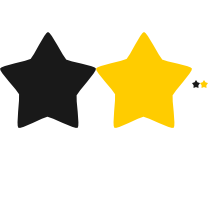
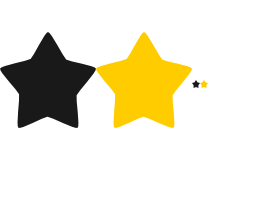
Working on achievements, minor fixes

Changed region(s): [[0.0, 0.125, 0.9375, 0.5938]]

diff --git a/src/Bulk_ui.h b/src/Bulk_ui.h
@@ -521,23 +521,17 @@ class control: public objectBased {
 		status = normal;//Sets normal status
 	
 		int i;//Counter
-		for (i = 0; i <= pressed; i++)//For each status
+		for (i = 0; i <= pressed; i++){//For each status
 			themes[i] = NULL;//Sets null theme for that status
+		}
 			
 		clickThrough = false;
 			
 		release.handlers.push_back(getFocus);//Adds getFocus to click events
 	}
 	
-	//Print function
-	virtual void print(SDL_Surface* target, int x = 0, int y = 0){
-		//Adds offset
-		area.x += x;
-		area.y += y;
-		
-		if (themes[status])//If there's a valid theme for current status
-			themes[status]->printRect(target, area);//Prints the control rectangle
-			
+	//Content printing function
+	void printContent(SDL_Surface* target, int x = 0, int y = 0){
 		if (content.contentType == CONTENT_TEXT){//If content is text
 			if (content.t != "" && themes[status] && themes[status]->themeFont.isValid()){//If text is valid
 				SDL_Surface* text = RENDERTEXT(themes[status]->themeFont, content.t.c_str());//Renders text
@@ -584,6 +578,18 @@ class control: public objectBased {
 			
 			content.i.print(target, x, y);//Prints image
 		}
+	}
+	
+	//Print function
+	virtual void print(SDL_Surface* target, int x = 0, int y = 0, bool printTheme = true){
+		//Adds offset
+		area.x += x;
+		area.y += y;
+		
+		if (printTheme && themes[status])//If there's a valid theme for current status
+			themes[status]->printRect(target, area);//Prints the control rectangle
+			
+		printContent(target, x, y);//Prints content
 		
 		//Removes offset
 		area.x -= x;
@@ -705,62 +711,14 @@ class inputBox: public control {
 	}
 	
 	//Print function
-	void print(SDL_Surface* target, int x = 0, int y = 0){
-		//Adds offset
-		area.x += x;
-		area.y += y;
+	void print(SDL_Surface* target, int x = 0, int y = 0, bool printTheme = true){
+		string oldText = content.t;//Old text
+
+		if (edit) content.t += "_";//Adds caret to text if in edit mode
+	
+		control::print(target, x, y, printTheme);//Normally prints control
 		
-		if (themes[status])//If there's a valid theme for current status
-			themes[status]->printRect(target, area);//Prints the control rectangle
-			
-		if (content.contentType == CONTENT_TEXT){//If content is text
-			if (content.t != "" || edit && themes[status]->themeFont.isValid()){//If text is valid
-				SDL_Surface* text = RENDERTEXT(themes[status]->themeFont, (content.t + (edit ? "_" : "")).c_str());//Renders text
-				
-				SDL_Rect offset;//Offset rectangle
-				
-				//Sets X according to horizontal alignment
-				switch (content.hAlignment){
-					case controlContent::left: offset.x = area.x + content.margin; break;
-					case controlContent::hcentre: offset.x = area.x + (area.w - text->w) / 2; break;
-					case controlContent::right: offset.x = area.x + area.w - text->w - content.margin; break;
-				}
-				
-				//Sets Y according to vertical alignment
-				switch (content.vAlignment){
-					case controlContent::top: offset.y = area.y + content.margin; break;
-					case controlContent::vcentre: offset.y = area.y + (area.h - text->h) / 2 + 1; break;
-					case controlContent::bottom: offset.y = area.y + area.h - text->h - content.margin; break;
-				}
-				
-				SDL_BlitSurface(text, NULL, target, &offset);//Blits text
-				SDL_FreeSurface(text);//Frees text
-			}
-		}
-		
-		else if (content.contentType == CONTENT_IMAGE){//If content is image
-			int x, y;//Image print coords
-			
-			//Sets X according to horizontal alignment
-			switch (content.hAlignment){
-				case controlContent::left: x = area.x + content.margin; break;
-				case controlContent::hcentre: x = area.x + (area.w - content.i.w()) / 2; break;
-				case controlContent::right: x = area.x + area.w - content.i.w() - content.margin; break;
-			}
-			
-			//Sets Y according to vertical alignment
-			switch (content.vAlignment){
-				case controlContent::top: y = area.y + content.margin; break;
-				case controlContent::vcentre: y = area.y + (area.h - content.i.h()) / 2; break;
-				case controlContent::bottom: y = area.y + area.h - content.i.h() - content.margin; break;
-			}
-			
-			content.i.print(target, x, y);//Prints image
-		}
-		
-		//Removes offset
-		area.x -= x;
-		area.y -= y;
+		content.t = oldText;//Resets text
 	}
 	
 	//Function to check events
@@ -816,8 +774,8 @@ class fillbar: public control {
 	}
 	
 	//Print method
-	void print(SDL_Surface* target, int x = 0, int y = 0){
-		control::print(target, x, y);//Prints control normally
+	void print(SDL_Surface* target, int x = 0, int y = 0, bool printTheme = true){
+		control::print(target, x, y, printTheme);//Prints control normally
 		
 		if (fillTheme && fill > 0){//If fill theme is available
 			rectangle r = area;//Fill rectangle
@@ -895,7 +853,7 @@ class checkBox: public control {
 	}
 	
 	//Function to print
-	void print(SDL_Surface* target, int x = 0, int y = 0){
+	void print(SDL_Surface* target, int x = 0, int y = 0, bool printTheme = true){
 		theme *oldHover = themes[hover], *oldNormal = themes[normal];//Hover and normal themes
 		
 		if (checked){//If checked
@@ -903,7 +861,7 @@ class checkBox: public control {
 			themes[normal] = checkedTheme;//Replaces normal with checked
 		}
 		
-		control::print(target, x, y);//Prints control
+		control::print(target, x, y, printTheme);//Prints control
 		
 		if (checked){//If checked
 			themes[hover] = oldHover;//Resets hover theme
@@ -994,8 +952,8 @@ class listBox: public control {
 	}
 	
 	//Print function
-	void print(SDL_Surface* target, int x = 0, int y = 0){
-		control::print(target, x, y);//Prints control
+	void print(SDL_Surface* target, int x = 0, int y = 0, bool printTheme = true){
+		control::print(target, x, y, printTheme);//Prints control
 		
 		int i;//Counter
 		for (i = 0; i < itemCount; i++){//For each item
@@ -1099,8 +1057,8 @@ class panel: public control {
 	
 	//Print function
 	//	prints panel and children controls
-	void print(SDL_Surface* target, int x = 0, int y = 0){
-		control::print(target, x, y);//Prints panel
+	void print(SDL_Surface* target, int x = 0, int y = 0, bool printTheme = true){
+		control::print(target, x, y, printTheme);//Prints panel
 		
 		//Adds offset
 		area.x += x;
@@ -1163,30 +1121,11 @@ class panel: public control {
 	}
 	
 	//Function to load from script object
-	//	loads control data (couldn't call control::fromScriptObj, since it would have returned false due to different object type;
-	//	simply copied that function's content); all child controls are declared as sub-objects inside the panel object, and any object
-	//	of type control found inside given object will be added as a child control
 	bool fromScriptObj(object o){
-		if (objectBased::fromScriptObj(o)){//If succedeed loading base data
-			object* area = get <object, deque<object> > (&o.o, "area");//Gets control area
-			
-			var* theme_normal = get <var, deque<var> > (&o.v, "normalTheme");//Control normal theme
-			var* theme_hover = get <var, deque<var> > (&o.v, "hoverTheme");//Control hover theme
-			var* theme_pressed = get <var, deque<var> > (&o.v, "pressedTheme");//Control pressed theme
-			
+		if (control::fromScriptObj(o)){//If succedeed loading base data
 			var* allowDrag = get <var> (&o.v, "allowDrag");//Allow drag variable
 			
-			object* content = get <object, deque<object> > (&o.o, "content");//Control content
-			
-			if (area) this->area.fromScriptObj(*area);//Loads area
-			
-			if (theme_normal) this->themes[normal] = get <theme, list<theme> > (&themesDB, theme_normal->value);//Gets normal theme
-			if (theme_hover) this->themes[hover] = get <theme, list<theme> > (&themesDB, theme_hover->value);//Gets hover theme
-			if (theme_pressed) this->themes[pressed] = get <theme, list<theme> > (&themesDB, theme_pressed->value);//Gets pressed theme
-			
 			if (allowDrag) this->allowDrag = allowDrag->intValue();//Sets allow drag variable
-			
-			if (content) this->content.fromScriptObj(*content);//Loads content
 			
 			deque<object>::iterator i;//Iterator for child objects
 			for (i = o.o.begin(); i != o.o.end(); i++){//For each child object

diff --git a/src/physica.cpp b/src/physica.cpp
@@ -142,14 +142,14 @@ int main(int argc, char* argv[]){
 		
 		if (!debugMode){//If not in debug mode
 			if (achBegin > 0 && SDL_GetTicks() - achBegin < achDuration){//If has to print achievement
-				if (achFrame->area.x < achFrame->area.y) achFrame->area.x += 10;//Moves window
+				if (achFrame->area.x < achFrame->area.y) achFrame->area.x = achFrame->area.y;//Moves window
 				if (achFrame->area.x > achFrame->area.y) achFrame->area.x = achFrame->area.y;//Adjusts position
 				
 				achieved.print(video);//Prints achieved window
 			}
 			
 			else if (achBegin > 0 && achFrame->area.x > achStartX){//If has to hide achievement
-				achFrame->area.x -= 10;//Moves window
+				achFrame->area.x = achStartX;//Moves window
 				if (achFrame->area.x < achStartX) achFrame->area.x = achStartX;//Adjusts position
 				
 				achieved.print(video);//Prints window

diff --git a/src/Bulk_image.h b/src/Bulk_image.h
@@ -17,6 +17,7 @@
 SDL_Surface* loadImg (const char* source){
 	SDL_Surface* s = IMG_Load(source);//Loads surface
 	s = SDL_DisplayFormatAlpha(s);//Converts surface to display format
+	
 	return s;//Returns surface
 }
 
@@ -155,7 +156,7 @@ class image: public objectBased, public scriptable{
 	//Print function
 	//	offset is related to the centre
 	void print_centre (SDL_Surface* target, int x, int y){
-		if (!surface) print(target, x, y);//If no surface is available, prints referring to topleft corner
+		if (!surface){ print(target, x, y); return; }//If no surface is available, prints referring to topleft corner
 		
 		SDL_Rect offset = {x - (useRect ? rect.w / 2 : surface->w / 2) + offsetX, y - (useRect ? rect.h / 2 : surface->h / 2) + offsetY};//Offset rectangle
 		SDL_BlitSurface(surface, useRect ? &rect : NULL, target, &offset);//Blits surface

diff --git a/src/ui.h b/src/ui.h
@@ -332,7 +332,7 @@ void resize(int newW, int newH, bool fs, bool redraw){
 	fullscreen = fs;//Sets fullscreen
 	
 	if (fullscreen){//If in fullscreen mode
-		SDL_Rect best = *(SDL_ListModes(NULL, SDL_SWSURFACE | SDL_FULLSCREEN)[0]);//Best video mode
+		SDL_Rect best = *(SDL_ListModes(NULL, SDL_HWSURFACE | SDL_FULLSCREEN)[0]);//Best video mode
 		
 		//Gets video size
 		video_w = best.w;
